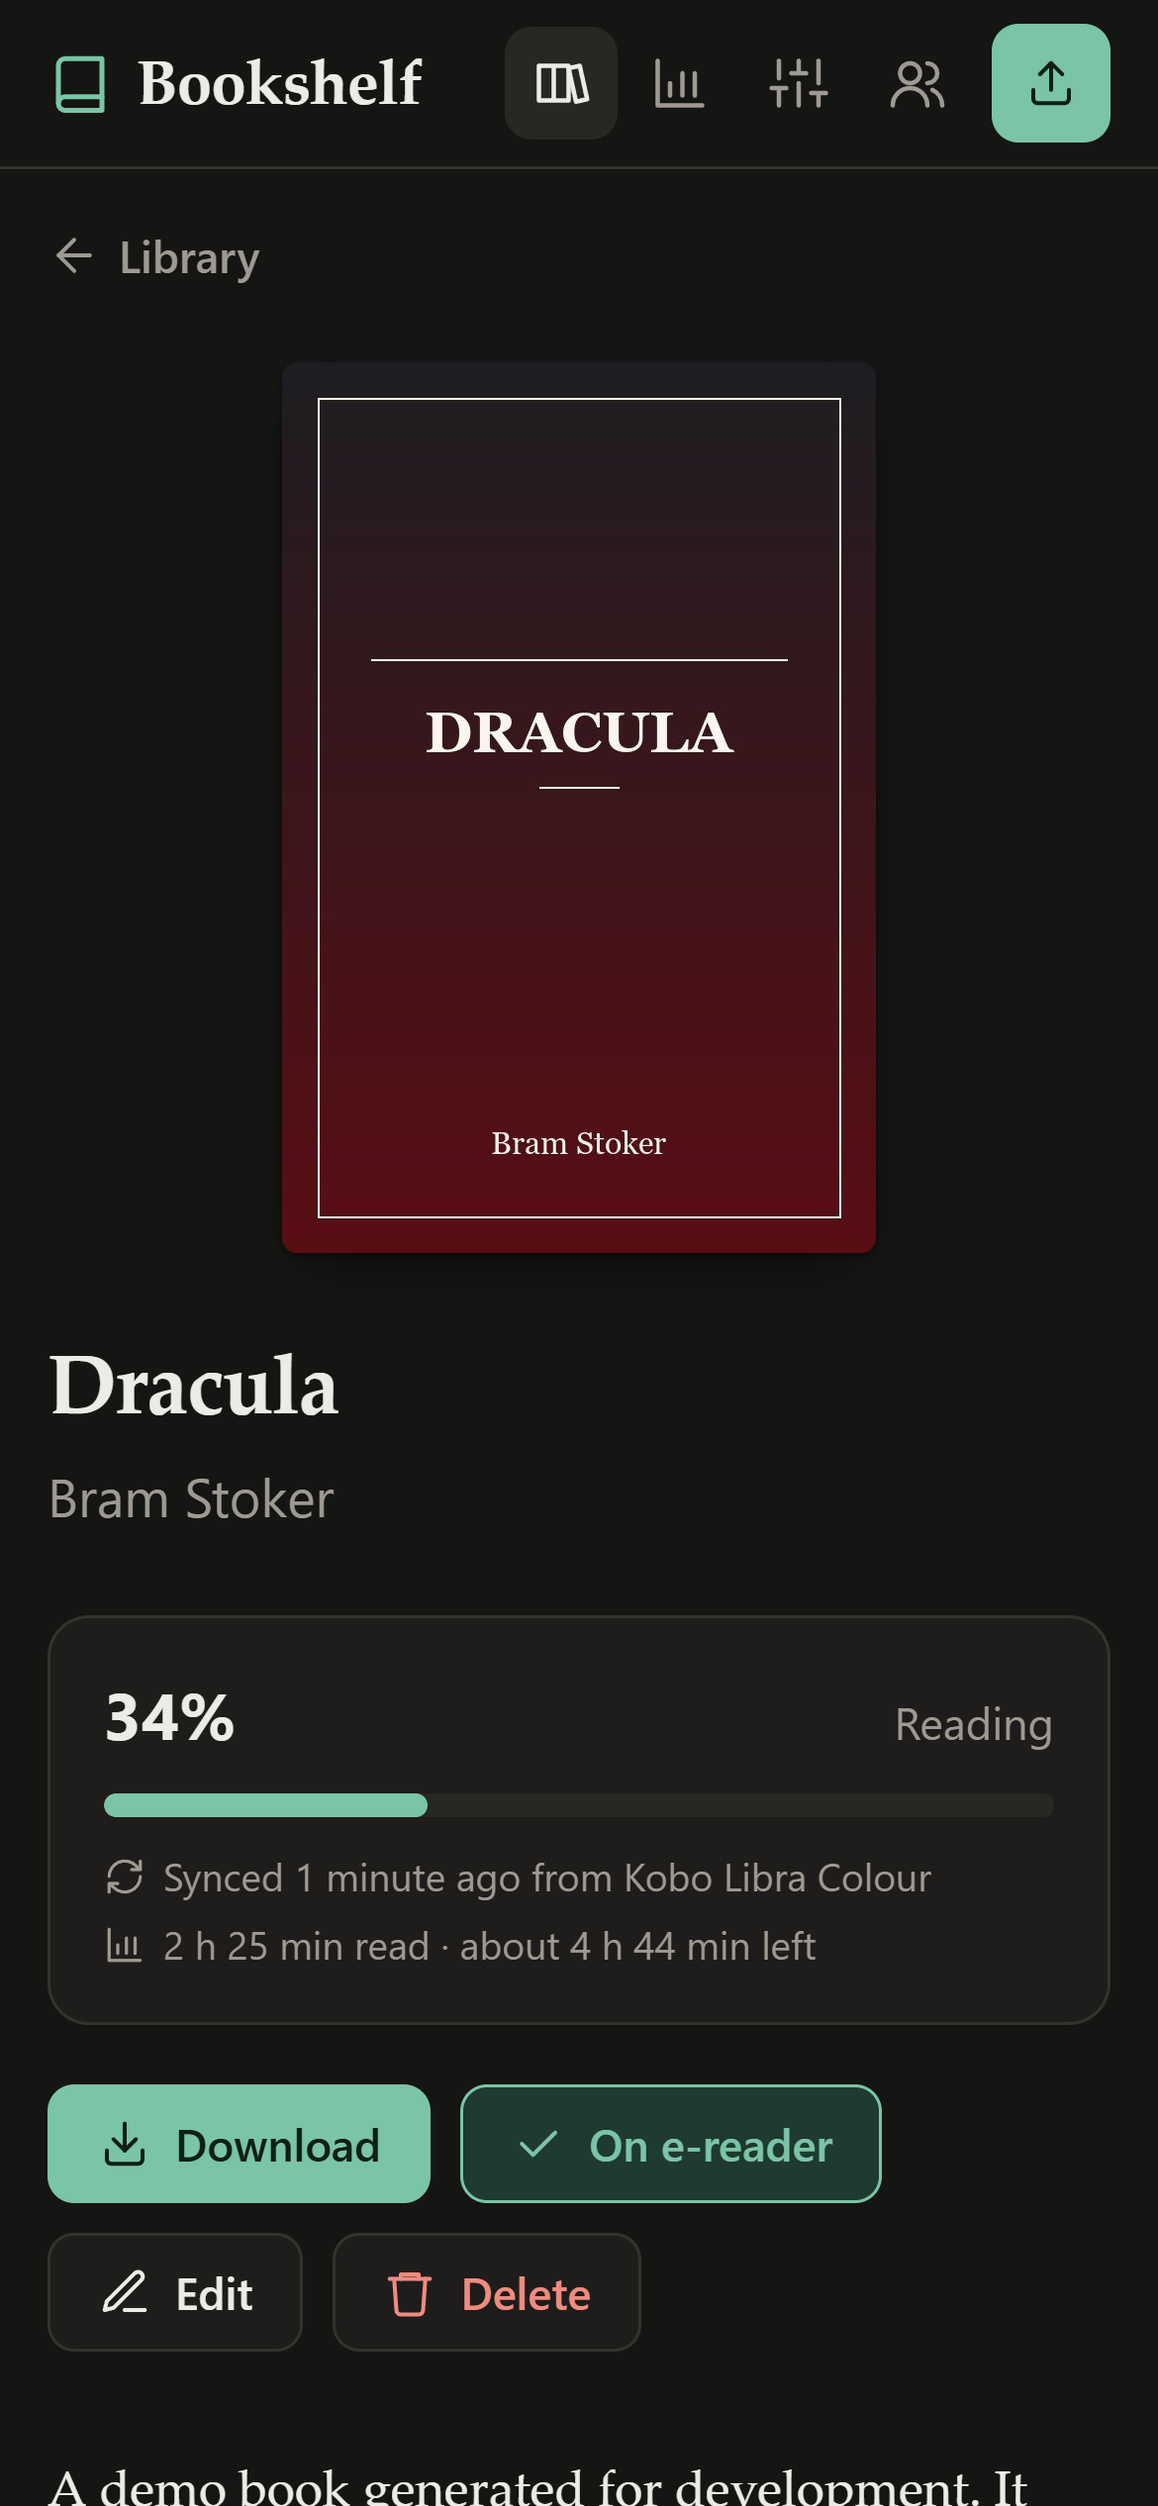
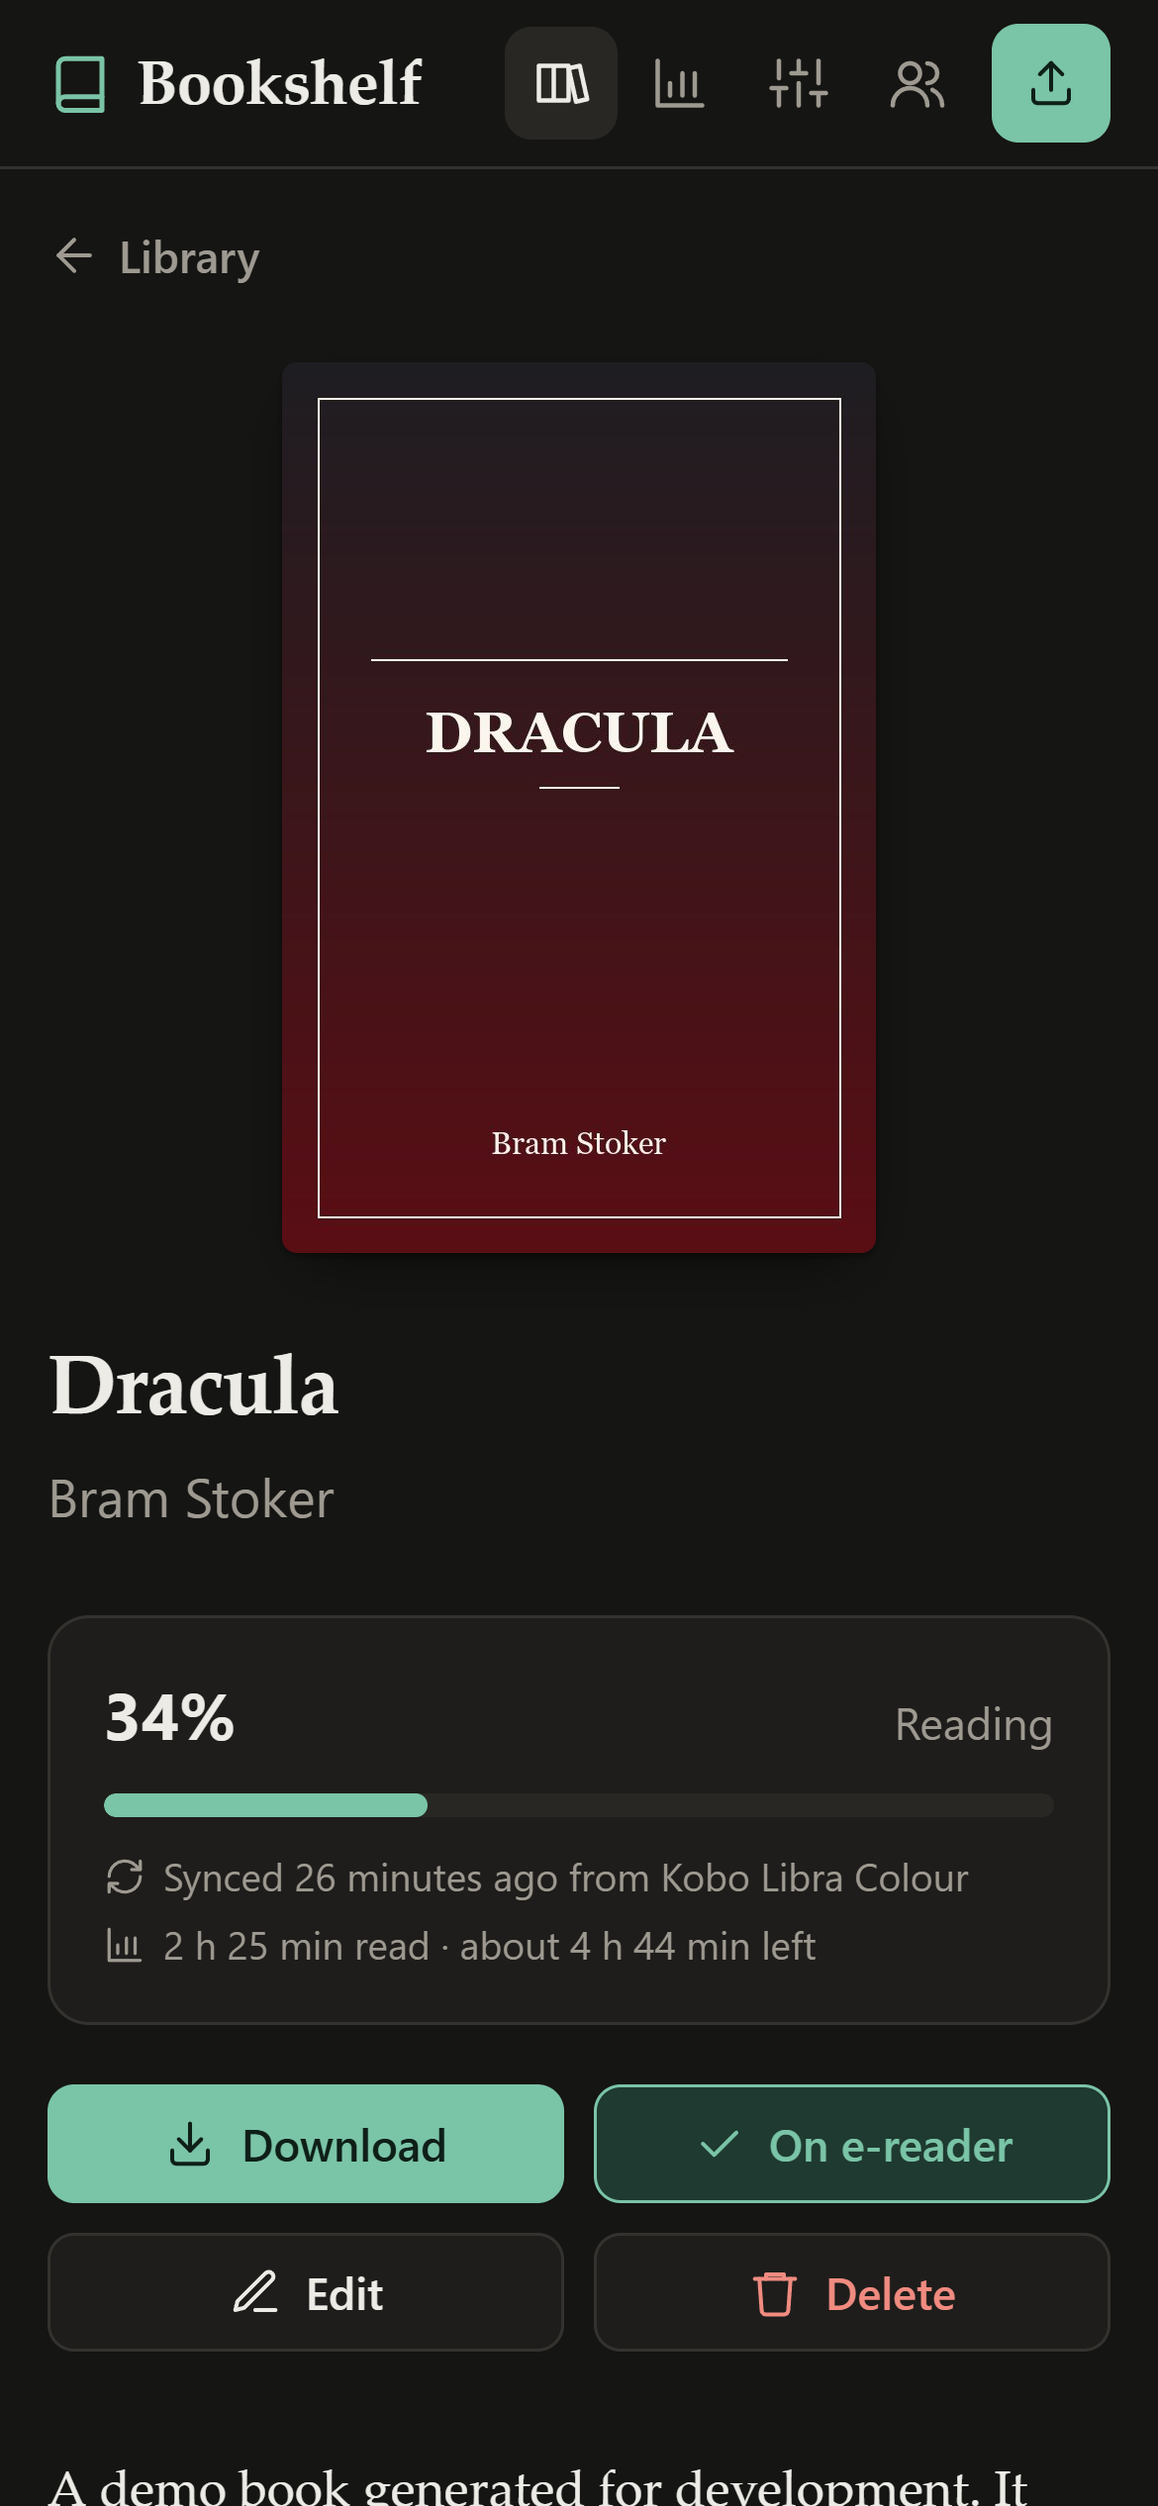
Improve the mobile layout of settings, users and dialogs
- Settings: addresses are shown in full and wrap instead of being cut
  off in read-only inputs; compact copy buttons on phones; KOReader setup
  steps are collapsible, which shortens the page considerably
- Users: responsive list with avatars instead of a table that made the
  page wider than the screen on phones
- Book page: action buttons form an even 2x2 grid on phones
- Dialogs open as bottom sheets on phones with Save/Cancel always visible
- Grid children in page stacks can shrink, so wide content no longer
  stretches cards; brand text hides only on very narrow screens (<375px)
- Verified at 390px and 360px: no horizontal overflow on any page

diff --git a/bookshelf/static/css/app.css b/bookshelf/static/css/app.css
@@ -187,15 +187,49 @@ textarea.input { height: auto; min-height: 120px; padding: 10px 12px; line-heigh
 .card h2 { display: flex; align-items: center; gap: 8px; font-size: 17px; font-weight: 650; }
 .card h2 .icon { color: var(--accent); }
 .card-sub { color: var(--muted); font-size: 14px; margin: 4px 0 20px; }
-.card .field + .field { margin-top: 14px; }
+.card > .field + .field { margin-top: 14px; }
 .card-row { display: flex; align-items: center; justify-content: space-between; gap: 16px; flex-wrap: wrap; }
 .page-head { margin-bottom: 24px; }
 .page-title { font-family: var(--font-serif); font-size: 32px; font-weight: 600; letter-spacing: -0.01em; margin-bottom: 4px; }
 .stack { display: grid; gap: 20px; max-width: 780px; }
+.stack > * { min-width: 0; }
 .steps { margin: 16px 0 0; padding-left: 20px; display: grid; gap: 6px; color: var(--muted); font-size: 14px; }
 .steps strong { color: var(--text); font-weight: 600; }
-.copy-field { display: flex; gap: 8px; }
-.copy-field .input { min-width: 0; }
+.field-label { font-size: 13px; font-weight: 600; color: var(--muted); }
+.copy-field { display: flex; align-items: stretch; gap: 8px; }
+.copy-value {
+  flex: 1;
+  min-width: 0;
+  display: flex;
+  align-items: center;
+  min-height: 42px;
+  padding: 9px 12px;
+  border: 1px solid var(--border);
+  border-radius: var(--radius-sm);
+  background: var(--surface-2);
+  font-family: var(--font-mono);
+  font-size: 13.5px;
+  line-height: 1.4;
+  overflow-wrap: anywhere;
+  user-select: all;
+}
+.btn-copy { flex: none; height: auto; min-height: 42px; }
+
+.howto { margin-top: 14px; }
+.howto summary {
+  display: inline-flex;
+  align-items: center;
+  gap: 6px;
+  color: var(--accent);
+  font-size: 14px;
+  font-weight: 600;
+  cursor: pointer;
+  list-style: none;
+}
+.howto summary::-webkit-details-marker { display: none; }
+.howto summary::before { content: "▸"; font-size: 12px; transition: transform 0.15s; }
+.howto[open] summary::before { transform: rotate(90deg); }
+.howto .steps { margin-top: 10px; }
 
 /* ---------- Auth & error pages ---------- */
 
@@ -458,15 +492,28 @@ textarea.input { height: auto; min-height: 120px; padding: 10px 12px; line-heigh
 .dialog-head h2 { font-size: 19px; font-weight: 650; }
 .dialog-foot { display: flex; justify-content: flex-end; gap: 10px; margin-top: 4px; }
 
-/* ---------- Admin table ---------- */
+/* ---------- Admin users ---------- */
 
-.table-wrap { overflow-x: auto; margin: -8px -12px; }
-.table { width: 100%; border-collapse: collapse; font-size: 14px; }
-.table th { padding: 8px 12px; color: var(--muted); font-size: 11.5px; font-weight: 700; letter-spacing: 0.07em; text-align: left; text-transform: uppercase; }
-.table td { padding: 12px; border-top: 1px solid var(--border); vertical-align: middle; }
-.table td:first-child { white-space: nowrap; }
 .badge { display: inline-block; margin-left: 6px; padding: 2px 8px; border-radius: 99px; background: var(--accent-soft); color: var(--accent); font-size: 11.5px; font-weight: 700; }
 .row-actions { display: flex; justify-content: flex-end; gap: 6px; }
+.user-list { display: grid; margin: -6px 0; padding: 0; list-style: none; }
+.user-row { display: flex; flex-wrap: wrap; align-items: center; gap: 10px 14px; padding: 12px 0; }
+.user-row + .user-row { border-top: 1px solid var(--border); }
+.user-avatar {
+  display: grid;
+  place-items: center;
+  flex: none;
+  width: 38px;
+  height: 38px;
+  border-radius: 50%;
+  background: var(--accent-soft);
+  color: var(--accent);
+  font-weight: 700;
+}
+.user-info { flex: 1 1 180px; min-width: 0; }
+.user-name { display: flex; flex-wrap: wrap; align-items: center; gap: 4px 8px; }
+.user-name .badge { margin-left: 0; }
+.user-row .row-actions { margin-left: auto; }
 
 /* ---------- Statistics ---------- */
 
@@ -506,7 +553,7 @@ a.stat-book:hover { background: var(--surface-2); }
 .stats-empty .steps { margin-top: 0; }
 .reading-time { margin-top: 4px; }
 .sync-note { margin-top: 14px; }
-code { padding: 1px 6px; border-radius: 6px; background: var(--surface-2); overflow-wrap: anywhere; }
+code:not(.copy-value) { padding: 1px 6px; border-radius: 6px; background: var(--surface-2); overflow-wrap: anywhere; }
 .link { color: var(--accent); text-decoration: underline; text-underline-offset: 2px; }
 
 /* ---------- Upload ---------- */
@@ -579,13 +626,38 @@ code { padding: 1px 6px; border-radius: 6px; background: var(--surface-2); overf
   .book-detail { grid-template-columns: 1fr; gap: 28px; }
   .detail-cover { position: static; width: min(200px, 55vw); margin: 0 auto; }
   .detail-info { text-align: left; }
-  .form-row { grid-template-columns: 1fr; }
+  .form-row { grid-template-columns: minmax(0, 1fr) 96px; }
+  .actions { display: grid; grid-template-columns: 1fr 1fr; }
+  .actions form, .actions .btn { width: 100%; }
+  .btn-copy span { display: none; }
+  .btn-copy { width: 46px; padding: 0; }
+  .card h2 { font-size: 16px; }
+  .page-head { margin-bottom: 18px; }
+  .user-row .row-actions { margin-left: 52px; }
+  /* Dialogs become bottom sheets with the actions always in reach. */
+  .dialog { width: 100%; max-width: none; max-height: 92vh; margin: auto 0 0; border-radius: 18px 18px 0 0; }
+  .dialog-sm { width: 100%; }
+  .dialog > form { padding: 18px 16px 0; }
+  .dialog-foot {
+    position: sticky;
+    bottom: 0;
+    margin: 4px -16px 0;
+    padding: 12px 16px calc(12px + env(safe-area-inset-bottom));
+    border-top: 1px solid var(--border);
+    background: var(--surface);
+  }
+  .dialog-foot .btn { flex: 1; }
   .stat-tiles { grid-template-columns: repeat(2, minmax(0, 1fr)); gap: 10px; }
   .stat-tile { padding: 14px 16px; }
   .stat-value { font-size: 23px; }
   .stat-book-numbers span { display: none; }
   .card { padding: 20px; }
   .upload-panel { right: 16px; bottom: 16px; }
+}
+
+@media (max-width: 374px) {
+  .brand span { display: none; }
+  .nav a { padding: 8px; }
 }
 
 @media (max-width: 520px) {

diff --git a/bookshelf/templates/admin_users.html b/bookshelf/templates/admin_users.html
@@ -12,54 +12,47 @@
   {{ alert(notice, 'ok') }}
 
   <section class="card">
-    <div class="table-wrap">
-      <table class="table">
-        <thead>
-          <tr><th>User</th><th>Books</th><th>Created</th><th class="sr-only">Actions</th></tr>
-        </thead>
-        <tbody>
-          {% for row_user, book_count in rows %}
-          <tr>
-            <td>
-              <strong>{{ row_user.username }}</strong>
-              {% if row_user.is_admin %}<span class="badge">Admin</span>{% endif %}
-              {% if row_user.id == user.id %}<span class="muted small">(you)</span>{% endif %}
-            </td>
-            <td>{{ book_count }}</td>
-            <td class="muted">{{ row_user.created_at|date }}</td>
-            <td>
-              <div class="row-actions">
-                <button type="button" class="btn btn-sm" data-dialog-open="password-{{ row_user.id }}">{{ icon('key', 16) }} Password</button>
-                {% if row_user.id != user.id %}
-                <form method="post" action="/admin/users/{{ row_user.id }}/delete"
-                      data-confirm="Delete “{{ row_user.username }}” and all of their books? This can’t be undone.">
-                  <button class="btn btn-sm btn-danger" aria-label="Delete {{ row_user.username }}">{{ icon('trash', 16) }}</button>
-                </form>
-                {% endif %}
-              </div>
-              <dialog id="password-{{ row_user.id }}" class="dialog dialog-sm" aria-label="Reset password">
-                <form method="post" action="/admin/users/{{ row_user.id }}/password" class="form">
-                  <header class="dialog-head">
-                    <h2>Reset password</h2>
-                    <button type="button" class="icon-btn" data-dialog-close aria-label="Close">{{ icon('x') }}</button>
-                  </header>
-                  <p class="muted no-margin">New password for <strong>{{ row_user.username }}</strong>. Their other sessions will be logged out.</p>
-                  <div class="field">
-                    <label for="pw-{{ row_user.id }}">New password</label>
-                    <input class="input" id="pw-{{ row_user.id }}" name="password" type="password" autocomplete="new-password" minlength="6" required>
-                  </div>
-                  <footer class="dialog-foot">
-                    <button type="button" class="btn" data-dialog-close>Cancel</button>
-                    <button class="btn btn-primary">Set password</button>
-                  </footer>
-                </form>
-              </dialog>
-            </td>
-          </tr>
-          {% endfor %}
-        </tbody>
-      </table>
-    </div>
+    <ul class="user-list">
+      {% for row_user, book_count in rows %}
+      <li class="user-row">
+        <span class="user-avatar" aria-hidden="true">{{ row_user.username[:1]|upper }}</span>
+        <div class="user-info">
+          <div class="user-name">
+            <strong>{{ row_user.username }}</strong>
+            {% if row_user.is_admin %}<span class="badge">Admin</span>{% endif %}
+            {% if row_user.id == user.id %}<span class="muted small">(you)</span>{% endif %}
+          </div>
+          <div class="muted small">{{ book_count|thousands }} book{{ '' if book_count == 1 else 's' }} · joined {{ row_user.created_at|date }}</div>
+        </div>
+        <div class="row-actions">
+          <button type="button" class="btn btn-sm" data-dialog-open="password-{{ row_user.id }}">{{ icon('key', 16) }} Password</button>
+          {% if row_user.id != user.id %}
+          <form method="post" action="/admin/users/{{ row_user.id }}/delete"
+                data-confirm="Delete “{{ row_user.username }}” and all of their books? This can’t be undone.">
+            <button class="btn btn-sm btn-danger" aria-label="Delete {{ row_user.username }}">{{ icon('trash', 16) }}</button>
+          </form>
+          {% endif %}
+        </div>
+        <dialog id="password-{{ row_user.id }}" class="dialog dialog-sm" aria-label="Reset password">
+          <form method="post" action="/admin/users/{{ row_user.id }}/password" class="form">
+            <header class="dialog-head">
+              <h2>Reset password</h2>
+              <button type="button" class="icon-btn" data-dialog-close aria-label="Close">{{ icon('x') }}</button>
+            </header>
+            <p class="muted no-margin">New password for <strong>{{ row_user.username }}</strong>. Their other sessions will be logged out.</p>
+            <div class="field">
+              <label for="pw-{{ row_user.id }}">New password</label>
+              <input class="input" id="pw-{{ row_user.id }}" name="password" type="password" autocomplete="new-password" minlength="6" required>
+            </div>
+            <footer class="dialog-foot">
+              <button type="button" class="btn" data-dialog-close>Cancel</button>
+              <button class="btn btn-primary">Set password</button>
+            </footer>
+          </form>
+        </dialog>
+      </li>
+      {% endfor %}
+    </ul>
   </section>
 
   <section class="card">

diff --git a/bookshelf/templates/settings.html b/bookshelf/templates/settings.html
@@ -4,9 +4,16 @@
 
 {% macro copy_field(id, value) -%}
 <div class="copy-field">
-  <input class="input mono" id="{{ id }}" value="{{ value }}" readonly>
-  <button type="button" class="btn" data-copy="{{ value }}">{{ icon('copy', 16) }}<span>Copy</span></button>
+  <code class="copy-value" id="{{ id }}">{{ value }}</code>
+  <button type="button" class="btn btn-copy" data-copy="{{ value }}" aria-label="Copy address">{{ icon('copy', 16) }}<span>Copy</span></button>
 </div>
+{%- endmacro %}
+
+{% macro howto(title="Set up in KOReader") -%}
+<details class="howto">
+  <summary>{{ title }}</summary>
+  {{ caller() }}
+</details>
 {%- endmacro %}
 
 {% block content %}
@@ -20,28 +27,32 @@
     <h2>{{ icon('sync', 18) }} KOReader progress sync</h2>
     <p class="card-sub">Keep your reading position in sync across all your KOReader devices.</p>
     <div class="field">
-      <label for="sync-url">Server address</label>
+      <span class="field-label">Server address</span>
       {{ copy_field('sync-url', server_url) }}
     </div>
+    {% call howto() %}
     <ol class="steps">
       <li>In KOReader, open a book and go to <strong>Tools → Progress sync → Custom sync server</strong>.</li>
       <li>Enter the server address above.</li>
       <li>Choose <strong>Login</strong> and use your Bookshelf username and password.</li>
       <li>Optionally enable automatic sync. The default document matching (“Binary”) works best.</li>
     </ol>
+    {% endcall %}
   </section>
 
   <section class="card">
     <h2>{{ icon('catalog', 18) }} OPDS catalog</h2>
     <p class="card-sub">Browse and download your library directly on your e-reader.</p>
     <div class="field">
-      <label for="opds-url">Catalog address</label>
+      <span class="field-label">Catalog address</span>
       {{ copy_field('opds-url', opds_url) }}
     </div>
+    {% call howto() %}
     <ol class="steps">
       <li>In KOReader’s file browser, open <strong>Search → OPDS catalog</strong> and tap <strong>+</strong>.</li>
       <li>Enter the catalog address with your Bookshelf username and password.</li>
     </ol>
+    {% endcall %}
   </section>
 
   <section class="card" id="sync-books">
@@ -49,30 +60,34 @@
     <p class="card-sub">KOReader can download books automatically into a folder on your e-reader. Choose what it should keep in sync: your whole library, or only a selection.</p>
     {% for id, label, url in sync_feeds %}
     <div class="field">
-      <label for="{{ id }}">{{ label }}{% if id == 'sync-marked' %} <span class="muted">· {{ device_count }} marked, use “Send to e-reader” on a book{% if device_count %} · <a class="link" href="/?device=true">show</a>{% endif %}</span>{% endif %}</label>
+      <span class="field-label">{{ label }}{% if id == 'sync-marked' %} <span class="muted">· {{ device_count }} marked, use “Send to e-reader” on a book{% if device_count %} · <a class="link" href="/?device=true">show</a>{% endif %}</span>{% endif %}</span>
       {{ copy_field(id, url) }}
     </div>
     {% endfor %}
+    {% call howto() %}
     <ol class="steps">
       <li>In KOReader’s file browser, open <strong>Search → OPDS catalog</strong>, tap <strong>+</strong> and add a catalog with one of the addresses above and your Bookshelf username and password. Enable <strong>Sync catalog</strong>.</li>
       <li>In the OPDS catalog menu, choose the folder for synced books.</li>
       <li>Run <strong>Sync</strong> (for example by long-pressing the catalog). KOReader downloads the books added since the last sync, newest first.</li>
     </ol>
     <p class="small muted sync-note">KOReader downloads at most 50 books per sync by default. Raise that limit for the first sync of a large library, or use <strong>Force sync</strong>. Books removed in Bookshelf stay on the e-reader.</p>
+    {% endcall %}
   </section>
 
   <section class="card" id="statistics">
     <h2>{{ icon('chart', 18) }} Reading statistics</h2>
     <p class="card-sub">Sync KOReader’s reading statistics to see your reading time, streaks and activity.</p>
     <div class="field">
-      <label for="webdav-url">WebDAV address</label>
+      <span class="field-label">WebDAV address</span>
       {{ copy_field('webdav-url', webdav_url) }}
     </div>
+    {% call howto() %}
     <ol class="steps">
       <li>In KOReader’s file browser, open <strong>Cloud storage</strong>, tap <strong>+</strong> and add a <strong>WebDAV</strong> server with the address above and your Bookshelf username and password. Leave the folder empty.</li>
       <li>Open a book, then <strong>Tools → Reading statistics → Settings → Cloud sync</strong>, pick that server and choose its main folder.</li>
       <li>Run <strong>Synchronize now</strong> (or let KOReader sync automatically). Repeat steps 1–2 on each device; KOReader merges their statistics.</li>
     </ol>
+    {% endcall %}
   </section>
 
   <section class="card">
